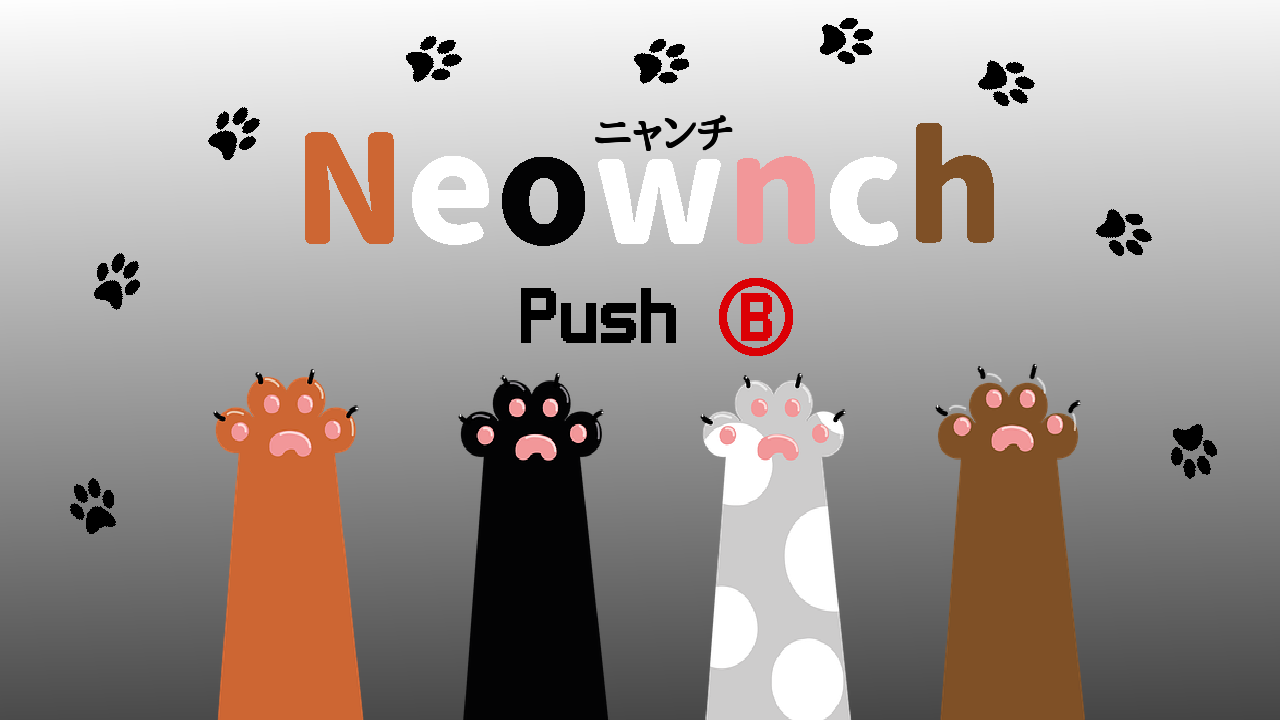
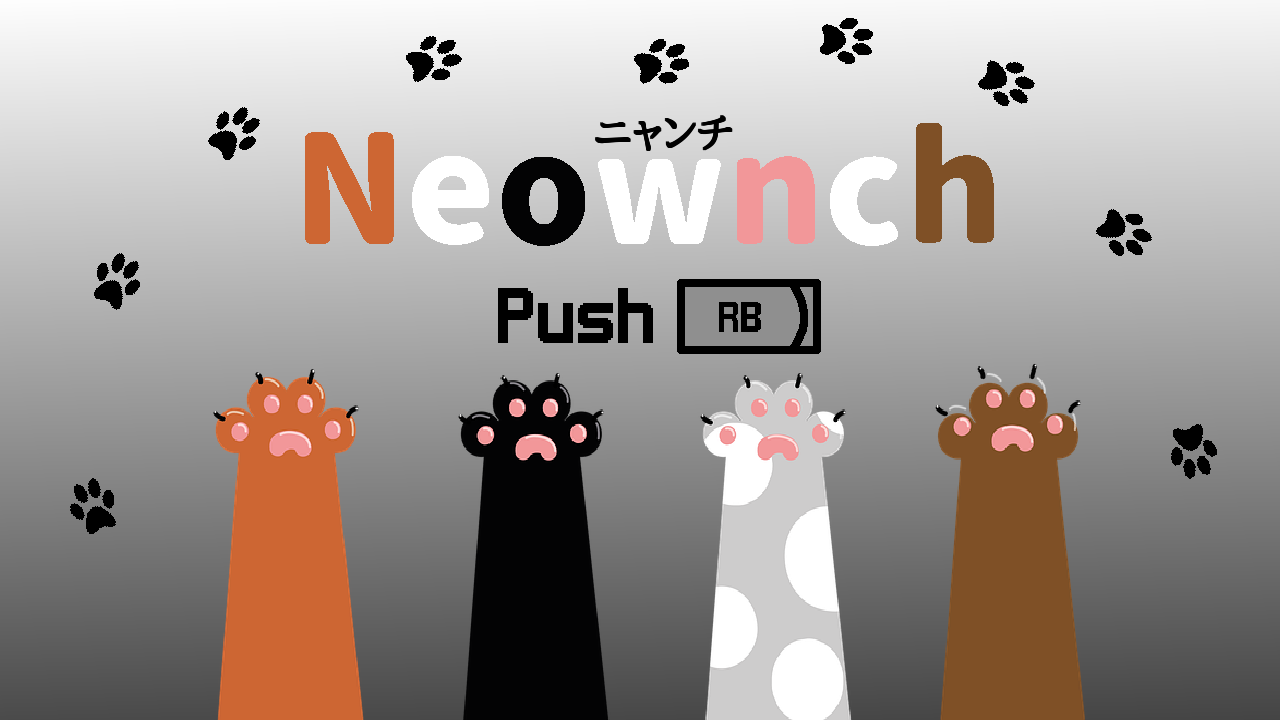
ステージ３とクリア画面追加 プレイヤーがスタンを食らった瞬間に敵に攻撃を与えたら敵が死ぬバグ発生

Changed region(s): [[0.375, 0.3667, 0.6562, 0.5194]]

diff --git a/scene/GameScene.cpp b/scene/GameScene.cpp
@@ -74,7 +74,7 @@ void GameScene::Update() {
 	{
 	case 0://タイトル
 		if (Input::GetInstance()->GetJoystickState(0, joyState)) {
-			if (joyState.Gamepad.wButtons & XINPUT_GAMEPAD_B) {
+			if (joyState.Gamepad.wButtons & XINPUT_GAMEPAD_RIGHT_SHOULDER) {
 				audio_->PlayWave(soundHandleNext_, false, 3);
 				audio_->StopWave(soundHandleLoop_);
 				playerKoFlag_ = 0;
@@ -125,85 +125,90 @@ void GameScene::Update() {
 		}
 		break;
 	case 2://ステージ２
-		playerArm_->Update();
-		enemy_->Update();
-		CheckCollision();
-		viewProjection_.UpdateMatrix();
+		if (Input::GetInstance()->GetJoystickState(0, joyState)) {
+			playerArm_->Update();
+			enemy_->Update();
+			CheckCollision();
+			viewProjection_.UpdateMatrix();
 
-		if (playerArm_->GetHp() <= 0) {
-			playerKoFlag_ = 1;
+			if (playerArm_->GetHp() <= 0) {
+				playerKoFlag_ = 1;
+				if (playerKoFlag_ == 1) {
+					audio_->PlayWave(soundHandleKo_, false, 3);
+				}
+			}
+			if (enemy_->GetHp() <= 0) {
+				enemyKoFlag_ = 1;
+				if (enemyKoFlag_ == 1) {
+					audio_->PlayWave(soundHandleKo_, false, 3);
+				}
+			}
 			if (playerKoFlag_ == 1) {
-				audio_->PlayWave(soundHandleKo_, false, 3);
+				if (joyState.Gamepad.wButtons & XINPUT_GAMEPAD_RIGHT_SHOULDER) {
+					audio_->PlayWave(soundHandleNext_, false, 3);
+					playerKoFlag_ = 0;
+					playerArm_->ReInitialize();
+					enemy_->ReInitialize();
+					scene = 0;
+				}
 			}
-		}
-		if (enemy_->GetHp() <= 0) {
-			enemyKoFlag_ = 1;
 			if (enemyKoFlag_ == 1) {
-				audio_->PlayWave(soundHandleKo_, false, 3);
-			}
-		}
-		if (playerKoFlag_ == 1) {
-			if (joyState.Gamepad.wButtons & XINPUT_GAMEPAD_RIGHT_SHOULDER) {
-				audio_->PlayWave(soundHandleNext_, false, 3);
-				playerKoFlag_ = 0;
-				playerArm_->ReInitialize();
-				enemy_->ReInitialize();
-				scene = 0;
-			}
-		}
-		if (enemyKoFlag_ == 1) {
-			if (joyState.Gamepad.wButtons & XINPUT_GAMEPAD_RIGHT_SHOULDER) {
-				audio_->PlayWave(soundHandleNext_, false, 3);
-				enemyKoFlag_ = 0;
-				playerArm_->ReInitialize();
-				enemy_->ReInitialize();
-				scene = 3;
+				if (joyState.Gamepad.wButtons & XINPUT_GAMEPAD_RIGHT_SHOULDER) {
+					audio_->PlayWave(soundHandleNext_, false, 3);
+					enemyKoFlag_ = 0;
+					playerArm_->ReInitialize();
+					enemy_->ReInitialize();
+					scene = 3;
+				}
 			}
 		}
 		break;
 	case 3://ステージ３
-		playerArm_->Update();
-		enemy_->Update();
-		CheckCollision();
-		viewProjection_.UpdateMatrix();
+		if (Input::GetInstance()->GetJoystickState(0, joyState)) {
+			playerArm_->Update();
+			enemy_->Update();
+			CheckCollision();
+			viewProjection_.UpdateMatrix();
 
-		if (playerArm_->GetHp() <= 0) {
-			playerKoFlag_ = 1;
+			if (playerArm_->GetHp() <= 0) {
+				playerKoFlag_ = 1;
+				if (playerKoFlag_ == 1) {
+					audio_->PlayWave(soundHandleKo_, false, 3);
+				}
+			}
+			if (enemy_->GetHp() <= 0) {
+				enemyKoFlag_ = 1;
+				if (enemyKoFlag_ == 1) {
+					audio_->PlayWave(soundHandleKo_, false, 3);
+				}
+			}
 			if (playerKoFlag_ == 1) {
-				audio_->PlayWave(soundHandleKo_, false, 3);
+				if (joyState.Gamepad.wButtons & XINPUT_GAMEPAD_RIGHT_SHOULDER) {
+					audio_->PlayWave(soundHandleNext_, false, 3);
+					playerKoFlag_ = 0;
+					playerArm_->ReInitialize();
+					enemy_->ReInitialize();
+					scene = 0;
+				}
 			}
-		}
-		if (enemy_->GetHp() <= 0) {
-			enemyKoFlag_ = 1;
 			if (enemyKoFlag_ == 1) {
-				audio_->PlayWave(soundHandleKo_, false, 3);
-			}
-		}
-		if (playerKoFlag_ == 1) {
-			if (joyState.Gamepad.wButtons & XINPUT_GAMEPAD_RIGHT_SHOULDER) {
-				audio_->PlayWave(soundHandleNext_, false, 3);
-				playerKoFlag_ = 0;
-				playerArm_->ReInitialize();
-				enemy_->ReInitialize();
-				scene = 0;
-			}
-		}
-		if (enemyKoFlag_ == 1) {
-			if (joyState.Gamepad.wButtons & XINPUT_GAMEPAD_RIGHT_SHOULDER) {
-				audio_->PlayWave(soundHandleNext_, false, 3);
-				enemyKoFlag_ = 0;
-				playerArm_->ReInitialize();
-				enemy_->ReInitialize();
-				scene = 4;
+				if (joyState.Gamepad.wButtons & XINPUT_GAMEPAD_RIGHT_SHOULDER) {
+					audio_->PlayWave(soundHandleNext_, false, 3);
+					enemyKoFlag_ = 0;
+					playerArm_->ReInitialize();
+					enemy_->ReInitialize();
+					scene = 4;
+				}
 			}
 		}
 		break;
 	case 4://クリア画面
-		//audio_->PlayWave(soundHandleClear_, false, 1);
-		if (joyState.Gamepad.wButtons & XINPUT_GAMEPAD_RIGHT_SHOULDER) {
-			audio_->PlayWave(soundHandleNext_, false, 3);
-			soundHandleLoop_ = audio_->PlayWave(soundHandleTitle_, true, 1);
-			scene = 0;
+		if (Input::GetInstance()->GetJoystickState(0, joyState)) {
+			if (joyState.Gamepad.wButtons & XINPUT_GAMEPAD_B) {
+				audio_->PlayWave(soundHandleNext_, false, 3);
+				soundHandleLoop_ = audio_->PlayWave(soundHandleTitle_, true, 1);
+				scene = 0;
+			}
 		}
 		break;
 	}
